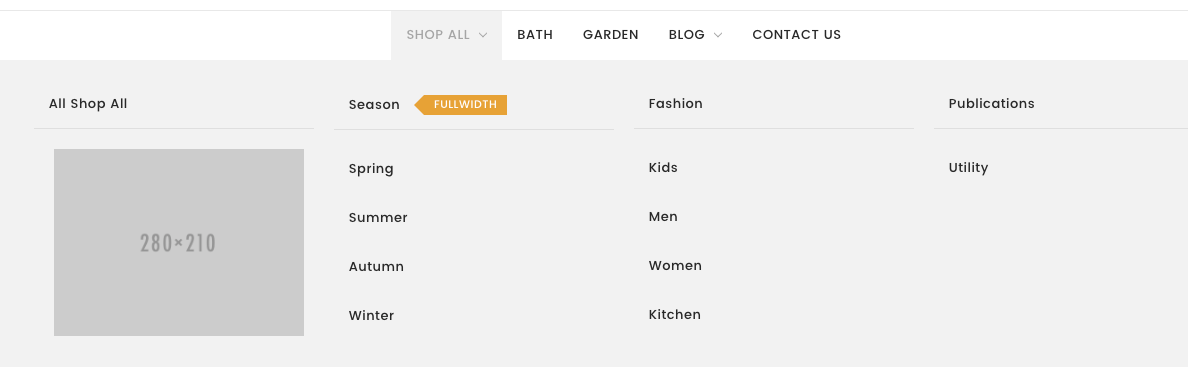
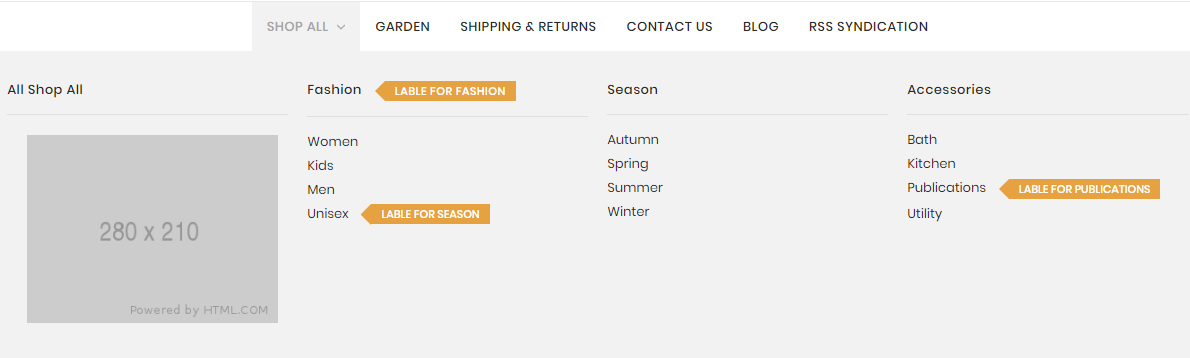
Update move config

diff --git a/docs/customization.md b/docs/customization.md
@@ -49,43 +49,44 @@ To configure, open the __Theme Editor__, scroll down to section __Logo__, click 
 ### Edit 3 info text blocks
 ![Header info text](img/home1-infobar.png)
 
-Show or hide these text blocks in Theme Editor > __Header__ section as showing below: 
+Show, hide and Edit content these text blocks in Theme Editor > __Header__ section as showing below: 
 ![Theme editor top info bar](img/theme-editor-top-info-bar.png)
 
-Edit content in the language file, from admin page > __Storefront Design__ > __My Themes__, click button __Advanced__ > __Edit Theme Files__ of the current theme:
+### User navigation Customization
 
-![Edit theme files](img/edit-theme-files.png)
+To customize User navigation of the header section, look into the options showing below in the Theme Editor:
 
-From the left navigation, click to edit the language file (e.i `en.json`):
+![User navigation Customization](img/theme-editor-header-user-navigation.png)
 
-![Edit language file](img/edit-language-top-info-text.png)
+### Page navigation Customization
 
-Edit the text as figured above.
+To customize Page navigation of the header section, look into the options showing below in the Theme Editor:
 
+![Page navigation Customization](img/theme-editor-header-page-navigation.png)
 
-### Colors Customization
-
-To customize colors of the header section, look into the options showing below in the Theme Editor:
-
-![Theme editor header](img/theme-editor-header.png)
-
-## MEGA MENU
+### Mega menu Customization
 
 ![Mega Menu](img/home1-megamenu.png)
 
-Images or labels appear on the mega menu can be edited in the language file `en.json`:
+To customize Mega menu of the header section, look into the options showing below in the Theme Editor:
 
-![Edit language for mega menu](img/edit-language-megamenu.png)
+![Mega Menu](img/home1-megamenu-2.png)
+
 
 For example if the current menu __Shop By__ has category ID = `23`.
 
-- `"show_cat_image_23": "yes"`: specify an image will show on this menu.
-- `cat_image_23`: is the image URL.
-If you want to show a label beside a menu items like above image, for example the menu item Season has category ID = `28`:
+- __Id Mega menu__: 23.
+- __Show banner on Mega menu__: Check it if you want to display the banner in this Megamenu.
+- __Banner position__: There are 3 choices: __Banner half left__, __Banner half right__ and __Banner quarter__.
+- __The Banner URL__: Enter the path of image source.
 
-- `"show_item_label_28": "yes"`: specify a label will show beside this menu item.
-- `"item_label_28"`: is the label text.
-You can add more for other items as you want.
+If you want to show a label beside a menu items like above image, for example the menu item Season has category ID = `24`:
+
+- __Id Mega menu item__: Is category ID `24`.
+- __Show label on This menu item__: Check it if you want to display the label in this Megamenu.
+- __Label text of This Mega menu item__: is the label text .
+
+![Mega Menu](img/home1-megamenu-3.png)
 
 ## Main Slideshow / Carousel
 
@@ -177,16 +178,16 @@ Set Show on __Page = Home Page__ and __Location = Top of Page__:
 
 ![Products by category](img/home2-products-by-category.jpg)
 
-This section allows you to show products in a certain category. To configure it edit the language file. File keys `emthemesmodez` > `products_by_category`.
+This section allows you to show products in a certain category. To configure it in the Hompage section.
 
-![Edit language products by category](img/edit-language-products-by-category.png)
+![Edit language products by category](img/edit-products-by-category.png)
 
-- `category_id_*`: is the product category ID that products belong.
-- `image_*`: is the image URL to show up beside the products.
-- `heading_*`: The heading text on the banner beside.
-- `text_*`: Description text on the banner beside.
-- `banner_*`: Button text on the banner beside
-- `style_*`: `" "` or `"right"` to show banner on left or right.
+- __Category Id__: is the product category ID that products belong.
+- __Banner position__: __left__ or __right__ to show banner on left or right.
+- __Banner URL__: is the image URL to show up beside the products.
+- __Heading__: The heading text on the banner beside.
+- __Subheading__: Description text on the banner beside.
+- __Button text__: Button text on the banner beside
 
 Theme supports up to 3 products by category blocks.
 
@@ -198,9 +199,7 @@ This section show new products, featured products and bestselling products in 3 
 
 You can configure number of products to display in __Theme Editor__ > __Homepage__ section:
 
-![Theme editor products](img/theme-editor-homepage-products-options.png)
-
-You can change the heading text of each column in the language files, find and edit keys `products` > `new`, `products` > `featured`, `products` > `top`.
+![Theme editor products](img/edit-subheading.png)
 
 
 ## Style 3 / First Row Banners
@@ -404,15 +403,6 @@ Set Show on __Page = Home Page__ and __Location = Top of Page__:
 ![config banner show on home](img/config-banner-show-on-home.png)
 
 
-### Configure a Layout Type of products block & Number of Products to show up
-
-In the __Theme Editor__ > __Homepage__, look into __New Products__ section (or __Featured Products__, __Most Popular Products__):
-
-- __Display type__: Choose appropriate layout type (__Grid__, __List__ or __Carousel__).
-- __Number of Products__: Choose number of products to show up.
-
-![Theme editor homepage products options](img/theme-editor-homepage-products-options.png)
-
 ### Show/Hide Quickview button
 
 When hover on a product item, Quickview button is showed up by default. To disable this feature, uncheck the checkbox __Show Quickview__ in the __Theme Editor__ > __Products__ section.
@@ -427,14 +417,6 @@ In the __Theme Editor__ > __Products__ section, Look into the color options belo
 ![Theme Editor Product Sale Badges options](img/theme-editor-product-sale-badges.png)
 ![Theme Editor Product Cards Quick Search options](img/theme-editor-product-cards-quick-search.png)
 ![Theme Editor Image Sizes options](img/theme-editor-image-sizes.png)
-
-### Change the heading text
-
-To change the heading text (New Products, Featured Products, Most Popular Products), edit the language file, look for the key `products` > `new` or `featured` or `top`.
-
-![Edit language new products heading text](img/edit-language-products-new.png)
-
-
 
 ###Change background of featured products block
 
@@ -474,9 +456,9 @@ This can be accomplished by the code in homepage template file  `templates/compo
 ```
 - `style="laparis4"` indicates that products carousel should show full width.
 - `show_subheading=true` indicates that the products block should have subheading.
-Subheading can be edited in the language file `en.json`:
+Subheading can be edited in __Homepage Section__:
 
-![Edit language file for subheading](img/edit-language-subheading.png)
+![Edit subheading](img/edit-subheading.png)
 
 ## Recent Blog Posts
 
@@ -486,9 +468,9 @@ This block show the most recent blog posts.
 
 ### Customize heading text and other text
 
-To change the heading text, read more text and date format, edit the language file. Find the key `blog` > `recent_posts`, `posted_by` and `read_more`, edit its values as you want.
+To change the heading text, read more text and date format, edit in The Blog section. Edit its values as you want.
 
-![Edit recent blog text in the language file](img/edit-language-blog.png)
+![Edit recent blog text in the language file](img/edit-blog.png)
 
 
 
@@ -593,14 +575,15 @@ The number in `"id": "..."` is your __User ID__.
 
 ### Display your Instagram photos
 
-To display our own Instagram photos, edit the language file. Find the key `emthemesmodez` > `instagram`, input your real code:
+To display our own Instagram photos, in the Instagram section. input your real code:
 
 - `user_id`: Is your Instagram __User ID__.
 - `client_id`: is your Instagram __Client ID__.
 - `access_token`: is your Instagram __Access Token__.
 - `title`: Is the heading text.
+- `description`: Is the heading text.
 
-![Edit instagram in the language file](img/edit-language-instagram.png)
+![Edit instagram in the language file](img/edit-instagram.png)
 
 ## Footer - Newsletter
 
@@ -633,12 +616,12 @@ To customize colors of the header section, look into the options showing below i
 
 ![Footer Links](img/home1-footer-columns.png)
 
-To edit text and links on the footer, edit the language file, section `footer` > `links`:
+To edit text and links on the footer, To edit Footer Links, You Go to __Theme Editor__ > __Footer__:
 
-![Edit language footer links](img/edit-language-footer-links.png)
+![Edit language footer links](img/edit-footer-links.png)
 
-- `col1_heading`, `col2_heading`, `col3_heading`: is the heading text of each column.
-- `col*_url*`, `col*_title*`: is URL and text of each link.
+- __Footer links column 1 heading__, __Footer links column 2 heading__, __Footer links column 3 heading__: is the heading text of each column.
+- __Footer links column * title__, __Footer links column * url __: is URL and text of each link.
 
 
 
@@ -664,11 +647,11 @@ To show/hide payment icons, go to Theme __Editor__ > __Payment Icons__ secitons,
 
 ![Copyright links](img/home1-copyright-links.png)
 
-To edit links in the copyright section at footer, edit the language file, find `footer` > `copyright_links`:
+To edit links in the copyright section at footer, To edit Copyright Links, You Go to the __Theme Editor__ > __Footer__:
 
-![Edit language copyright links](img/edit-language-copyright-links.png)
+![Edit language copyright links](img/edit-copyright-links.png)
 
-- `url*` is link URL. Leave a __single space__ letter if you want to hide any link.
+- `url*` is link URL. Leave a blank if you want to hide any link.
 - `title*` is link title.
 
 
@@ -734,72 +717,6 @@ Edit your product in the admin panel to add custom label:
 ![Edit product custom fields](img/edit-product-custom-fields.png)
 
 Add a custom label named `card_color` and enter color hex code in the value input box seperator by commas.
-
-## Mix contents from other theme styles
-
-For example, if you want to use theme __default__ style as the main theme, but also want to display other content blocks from __Style 2__. You can edit the template files, rearrange, add more content blocks or delete unused content blocks.
-
-Let open folder `templates` > `components` > `emthemes-modez` > `home` in the template files editor:
-
-![Edit template file home default](img/edit-file-home-default.png)
-
-There is 2 files in this folder:
-
-- `default.html`: is used for __default__ style.
-- `laparis2.html`: is used for __Style 2__.
-
-Let's take a look at contents of 2 files:
-
-__default.html__
-
-```plain
-{{> components/emthemes-modez/sections/section section="banner_laparis1_1"}}
-{{> components/emthemes-modez/sections/section section="new_products"}}
-{{> components/emthemes-modez/sections/section section="categories_featured"}}
-{{> components/emthemes-modez/sections/section section="popular_products"}}
-{{> components/emthemes-modez/sections/section section="blog_recent"}}
-{{> components/emthemes-modez/sections/section section="brands_carousel"}}
-{{> components/emthemes-modez/sections/section section="instagram_grid"}}
-```
-
-__laparis2.html__
-
-```plain
-{{> components/emthemes-modez/sections/section section="products_by_category_1"}}
-{{> components/emthemes-modez/sections/section section="products_by_category_2"}}
-{{> components/emthemes-modez/sections/section section="carousel_laparis2_1"}}
-{{> components/emthemes-modez/sections/section section="special_products_columns"}}
-{{> components/emthemes-modez/sections/section section="brands_carousel"}}
-{{> components/emthemes-modez/sections/section section="instagram_grid"}}
-```
-
-The files are showing very clearly how content blocks are displayed. See values in parameter `section="..."`:
-
-- `banner_laparis1_1`: Is the first block content 3 banners in the homepage of default style.
-- `new_products`: Is a block contains new products.
-- `categories_featured`: Is a block contains featured products with categories list as appeared on the homepage of default style.
-- `popular_products`: Is a block contains popular (or bestselling) products.
-- `blog_recent`: Is a block contains recent blog posts.
-- `brands_carousel`: Is a brand images carousel.
-- `instagram_grid`: Is a block displaying instagram photos.
-- `products_by_category_1` & `products_by_category_2`: Is a block contains product in a certain category as showing on homepage of __Style 2__.
-- `carousel_laparis2_1`: Is the image carousel as showing on homepage of __Style 2__.
-- `special_products_columns`: Is a block contains 3 columns showing new products, featured products and bestselling products as displayed on homepage of __Style 2__.
-
-So just copy a line from the other file to the other. Arrange position of these sections as you wish.
-
-Example of a mixed __default.html__:
-
-```plain
-{{> components/emthemes-modez/sections/section section="new_products"}}
-{{> components/emthemes-modez/sections/section section="popular_products"}}
-{{> components/emthemes-modez/sections/section section="banner_laparis1_1"}}
-{{> components/emthemes-modez/sections/section section="products_by_category_1"}}
-{{> components/emthemes-modez/sections/section section="products_by_category_2"}}
-{{> components/emthemes-modez/sections/section section="instagram_grid"}}
-{{> components/emthemes-modez/sections/section section="blog_recent"}}
-{{> components/emthemes-modez/sections/section section="brands_carousel"}}
-```
 
 ## Add our own CSS (Sass) code
 

diff --git a/docs/index.md b/docs/index.md
@@ -1,14 +1,13 @@
 # User Guide - BigCommerce Theme LaParis
 
-Theme Version: 1.0.6 (2017-04-21)
+Theme Version: 1.1.2 (2019-08-1)
 
-Theme designed and developed by [papathemes](http://papathemes.com). Contact for support via email [tvlgiao@gmail.com](mailto:tvlgiao@gmail.com). 
+Theme designed and developed by [papathemes](http://papathemes.com). Contact for support via email [contact@papathemes.com](mailto:contact@papathemes.com). 
 
 ## User Guide Contents
 
 * [Install the theme](installation.md)
 * [Quick Start Guide](quickstart.md)
 * [Customization](customization.md)
-* [Theme Settings](settings.md)
 * [FAQs](faqs.md)
 * [Help & Support](support.md)

diff --git a/docs/quickstart.md b/docs/quickstart.md
@@ -16,14 +16,9 @@ To access the Theme Editor, go to your admin page > __Storefront Design__ > __My
 
 ![Click customize theme](img/click-customize-theme.png)
 
-See the complete guide of Theme Editor in chapter [Theme Settings](settings.md).
-
-
-
-
 ## Edit language file
 
-Language files contains hard-coded static text, images and other links, which can be edited and translated to any languages.
+Language files translated to any languages.
 
 To edit the language file, go to admin page > __Storefront Design__ > __My Themes__, click button __Advanced__ > __Edit Theme Files__ of the current theme:
 

diff --git a/docs/support.md b/docs/support.md
@@ -1,6 +1,6 @@
 # Help & Support
 
-If you have any problem, don't hesistate to contact us via email <tvlgiao@gmail.com>.
+If you have any problem, don't hesistate to contact us via email <contact@papathemes.com>.
 
 Our working hours: Monday to Friday 8AM - 5PM GMT+8.
 
